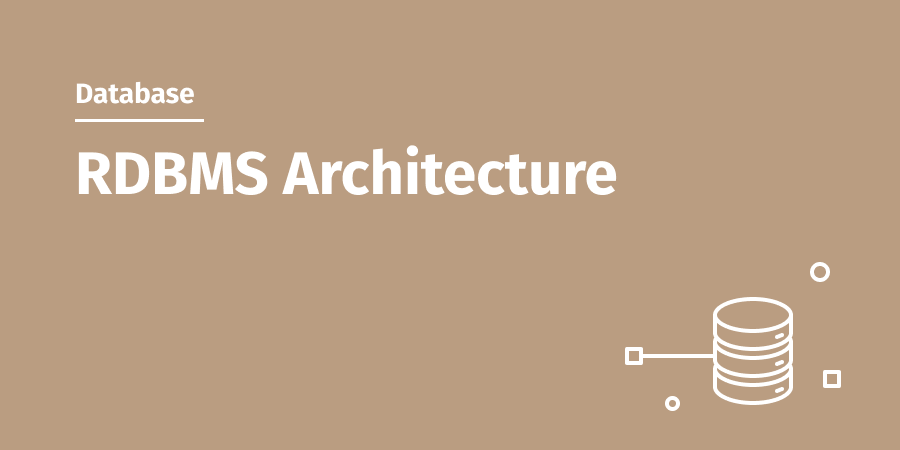
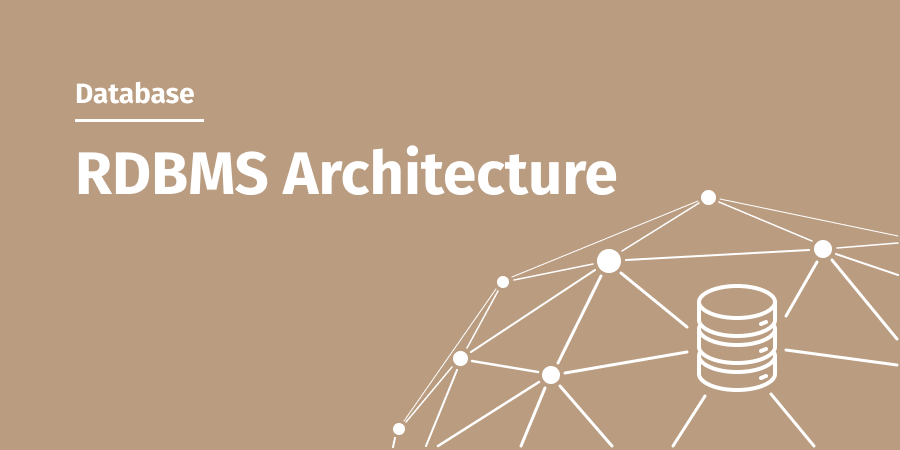
feat: 데이터베이스 구조 포스트 작성

diff --git a/docs/_posts/database/2023-11-05-database-architecture.md b/docs/_posts/database/2023-11-05-database-architecture.md
@@ -1,0 +1,149 @@
+---
+layout: post
+title: 데이터베이스 구조
+category: database
+tags:
+  - database
+  - buffer cache
+  - index
+  - b-tree
+banner: "/img/posts/database-archi-banner.png"
+---
+
+필자는 서버 개발자로 커리어를 이어가고 있지만 운이 좋게도 커리어 초반에 경력이 지긋한 이사님의 밀착 코칭을 받아 데이터베이스에 관해 전반적인 지식을 쌓을 수 있었습니다.
+거쳐 간 회사들이 별도 DBA 직군이 존재하지 않아서 서버 개발자가 데이터베이스까지 관리해야 하는 환경이 오히려 다양한 경험을 쌓게 해주었다고 생각합니다.
+어찌 보면 서버 개발자의 업무도 상당수가 데이터베이스에 대한 CRUD 작업이기에 데이터베이스의 특성을 숙지하고 있다면 업무에 많은 도움이 될 겁니다.
+
+아래에 데이터베이스 구조에 대한 기본적인 내용을 정리하였습니다.
+여기서는 오라클 위주로 설명하였지만, MySQL이나 PostgreSQL 등 대부분의 데이터베이스 시스템도 비슷한 원리로 동작합니다.
+
+---
+
+# 1. Table Space
+
+데이터가 저장되는 큰 범주를 **테이블 스페이스**(Table Space)라고 합니다.
+테이블 스페이스 안에는 **세그먼트**(Segment)라는 오브젝트가 존재하는데, 보통 테이블 데이터가 저장되는 데이터 세그먼트와 인덱스가 저장되는 인덱스 세그먼트로 구분됩니다.
+일반적으로 한 테이블당 하나의 세그먼트로 이루어져 있으나, 만일 파티션 설정이 되어있다면 파티션마다 다른 세그먼트로 구성됩니다.
+
+<img src="/img/posts/database-archi-table-space.png" style="max-width:720px"/>
+
+**익스텐트**(Extent)는 공간을 확장하는 단위입니다.
+테이블에 데이터를 저장하다가 세그먼트 공간이 부족해지면 테이블 스페이스로부터 새로운 익스텐트를 할당받아 사용합니다.
+그리고 실제로 데이터가 저장되는 공간은 익스텐트 내부의 **블록**(Block)입니다.
+하나의 익스텐트 내에서 블록은 모두 인접한 연속 공간으로 존재합니다.
+하지만 익스텐트끼리는 같은 세그먼트에 속해있더라도 연속되지 않을 수 있습니다.
+
+블록은 DB로부터 데이터를 읽고 쓰는 단위입니다.
+하나의 레코드를 읽는 경우에도 해당 블록 전체를 가져와 읽어야 합니다.
+오라클에서는 기본적으로 8KB의 블록을 사용하는데, 1 Byte를 읽더라도 8KB 블록 전체를 가져와야 합니다.
+
+> 💡 PostgreSQL에서도 동일하게 블록 단위로 데이터를 읽습니다.
+> MySQL에서는 데이터를 읽는 최소 단위로 블록 대신 페이지(Page)라는 용어를 사용합니다.
+기본적으로 PostgreSQL은 한 블록당 8KB, MySQL의 InnoDB 엔진은 한 페이지에 16KB의 공간을 할당합니다.
+
+---
+
+# 2. Memory
+
+## 2.1 SGA
+
+오라클은 **SGA**(System Global Area)라는 메모리 공간에서 서버 프로세스와 백그라운트 프로세스가 접근하는 데이터 및 제어 정보를 캐싱하고 있습니다.
+데이터 블록을 캐싱하는 **버퍼 캐시**(Buffer Cache), 사용자가 실행한 쿼리를 저장하는 **공유 풀**(Shared Pool), 트랜잭션 로그를 기록하는 **리두 로그 버퍼**(Redo Log Buffer) 등으로 구성됩니다.
+
+<img src="/img/posts/database-archi-sga.png" style="max-width:480px"/>
+
+## 2.2 Buffer Cache
+
+SQL의 성능을 좌지우지하는 건 바로 디스크 I/O 입니다.
+앞서 데이터를 읽을 때 블록 단위로 가져와 읽는다고 했는데, 이 과정이 자주 반복될수록 성능이 떨어지게 됩니다.
+이를 해결하기 위해 데이터베이스 메모리에 **버퍼 캐시**가 존재합니다.
+데이터를 블록에서 직접 읽는 대신 메모리에 캐시 해두어 같은 블록에 대한 반복적인 접근을 방지하는 것을 목적으로 합니다.
+
+<img src="/img/posts/database-archi-buffer-cache.png" style="max-width:720px"/>
+
+서버 프로세스는 항상 버퍼 캐시부터 스캔하여 데이터를 읽어갑니다.
+만일 버퍼 캐시에서 데이터를 찾지 못했다면 디스크로 접근하여 해당하는 블록을 읽습니다.
+이때 블록에 있는 데이터를 먼저 버퍼 캐시에 저장하고 읽게 되는데, 다음번 해당 블록을 읽을 때는 디스크에 접근할 필요 없이 버퍼 캐시에서 데이터를 읽어갈 수 있습니다.
+일반적으로 메모리 I/O가 디스크 I/O보다 훨씬 가볍고 빠르기 때문이 이러한 메모리 캐싱을 통해 성능을 높일 수 있습니다.
+
+## 2.3 Hit Rate
+
+버퍼 캐시의 효율을 측정하는 지표로 **Buffer Cache Hit Rate**가 있습니다.
+총 읽은 블록 개수 중 캐시에서 곧바로 찾은 블록 수의 비율로 계산하는데 해당 지표가 높을 수록 디스크에 접근하지 않고 메모리에서 데이터를 찾았다는 의미가 됩니다.
+
+<img src="/img/posts/database-archi-hit-rate.png" style="max-width:600px"/>
+
+만일 1000개 블록을 읽었다고 가정했을 때 900개는 Buffer Cache에서 찾았고 100개는 디스크에서 가져왔다면 이때의 Hit Rate는 90%가 됩니다.
+보통 일반적인 어플리케이션을 운영하는 경우에 Hit Rate 99% 정도를 권장하고 있습니다.
+
+## 2.4 Latch
+
+Buffer Cache에 캐시 된 블록들은 공유 자원입니다.
+따라서 누구나 접근할 수 있기 때문에 **Latch**라는 메커니즘을 이용하여 여러 프로세스가 동시에 접근하지 않도록 제어해야 합니다.
+
+Latch
+
+---
+
+# 3. Index
+
+인덱스는 데이터를 정렬하여 데이터 검색 및 조회를 빠르게 하기 위한 핵심 요소입니다.
+일반적으로 인덱스는 **B-Tree** 구조로 되어있습니다.
+제일 상단에 Root 블록을 기준으로 가지가 되는 Branch 블록과 말단에 위치한 Leaf 블록으로 구성되어 있습니다.
+
+<img src="/img/posts/database-archi-btree.png" style="max-width:600px"/>
+
+B-Tree 외에도 Hash, Bitmap 등을 사용하는 경우도 있지만, 아래 내용에서는 B-Tree 기준으로 설명하겠습니다.
+
+## 3.1 Table Access
+
+<img src="/img/posts/database-archi-random-access.png" style="max-width:600px"/>
+
+B-Tree의 말단에 위치한 Leaf 블록은 **ROWID**를 가지고 있습니다.
+ROWID는 데이터 블록의 주소값, row 번호 등을 포함하고 있는데 이 값으로 테이블 레코드에 바로 접근할 수 있습니다.
+만일 찾는 컬럼 값이 인덱스에 모두 존재한다면 별도로 테이블에 접근하지 않고 해당 값을 읽어갑니다.
+이렇게 블록을 하나씩 읽으며 레코드에 접근하는 방식을 **Random Access**라고 합니다.
+
+인덱스의 블록을 읽는 과정에서도 해당 블록을 Buffer Cache에 저장해야 합니다.
+Root 블록에서부터 Branch, Leaf를 탐색할 때마다 먼저 Buffer Cache에서 해당 블록을 찾고 없는 경우에는 디스크에서 가져옵니다.
+
+<img src="/img/posts/database-archi-sequantial-access.png" style="max-width:420px"/>
+
+반대로 **Sequential Access**는 순서대로 블록을 읽는 방식입니다.
+오라클에서는 세그먼트에 할당된 익스텐트의 첫 번째 블록의 주소값을 맵(map) 형태로 관리하고 있습니다.
+하나의 익스텐트에서 블록은 인접해 있으므로 첫 번째 블록의 주소만 알아도 익스텐트 전체를 다 읽을 수 있습니다.
+따라서 해당 익스텐트 맵에 등록된 익스텐트들을 차례로 읽다 보면 테이블 전체를 Full Scan 할 수 있습니다.
+
+Sequential Access 과정에서도 먼저 Buffer Cache에서 데이터를 찾습니다.
+하지만 Full Scan을 진행하면서 매번 디스크에서 블록을 하나씩만 가져오는 건 매우 비효율적입니다.
+따라서 이때는 해당 블록이 속한 익스텐트의 블록들을 모두 Buffer Cache로 가져옵니다.
+이러한 작업을 Multiblock I/O라고 하는데 한 번에 가져오는 블록이 많을수록 더 효율이 올라가게 됩니다.
+
+## 3.2 Index Scan
+
+인덱스로 데이터를 탐색하는 과정은 크게 수직적 탐색과 수평적 탐색으로 나눌 수 있습니다.
+수직적 탐색은 인덱스 스캔의 시작 지점을 특정하는 과정이고, 수평적 탐색은 해당 지점부터 순차적으로 데이터를 가져오는 과정입니다.
+
+<img src="/img/posts/database-archi-index-scan.png" style="max-width:600px"/>
+
+인덱스 스캔은 Root 블록에서 시작됩니다.
+Root 블록부터 하위 블록으로 내려가는데 키 값이 작거나 같으면 왼쪽으로, 크면 오른쪽으로 이동하여 Leaf 블록까지 도달합니다.
+중간에 일치하는 블록을 만나도 조건에 맞는 Leaf 노드까지 탐색해야 합니다.
+마지막에 도달한 Leaf 블록은 테이블 레코드를 스캔할 시작 지점이 됩니다.
+
+시작 지점을 찾은 후에는 해당 블록부터 수평으로 데이터가 일치하는 범위를 찾습니다.
+B-Tree의 Leaf 블록끼리는 서로 앞뒤 블록의 주소값을 가지고 연결된 양방향 연결 리스트 구조입니다.
+따라서 다음 블록으로 넘어가면서 원하는 값이 나오지 않을 때까지 스캔할 수 있습니다.
+조건에 부합하는 블록을 모두 찾으면 해당 블록이 가지고 있는 ROWID로 원하는 레코드를 가져옵니다.
+
+이러한 방식으로 인덱스를 이용하면 테이블을 Full Scan 하지 않고도 원하는 데이터를 바로 찾아갈 수 있습니다.
+다만 인덱스는 소량의 데이터를 읽는 경우에 유리합니다.
+만일 인덱스를 이용하여 다량의 데이터를 가져오려 한다면 Leaf 블록을 따라 수평적 탐색을 하면서 하나씩 블록을 읽어야 하는데, 이 과정은 Full Scan에서 Multiblock I/O를 이용하여 한 번에 여러 블록을 가져오는 방식에 비해서 비효율적입니다.
+따라서 가져올 데이터 성격에 따라 적절한 탐색 방식을 사용해야 합니다.
+
+---
+
+References
+
+- 조시형, 친절한 SQL 튜닝, 디비안, 2018-06-01
+- [MySQL :: MySQL 8.0 Reference Manual :: 15.11.2 File Space Management](https://dev.mysql.com/doc/refman/8.0/en/innodb-file-space.html)
